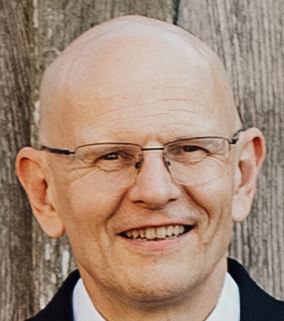
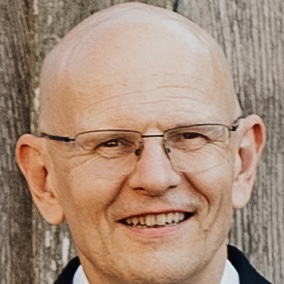
Update page

diff --git a/templates/team.html b/templates/team.html
@@ -13,12 +13,12 @@
         {% for member in bag('team')['members'] %}
             <div class="team-member">
                 {% if member.image %}
-                <div class="team-member-item">
-                    <img src="{{ member.image|url }}" alt="{{ member.name ~ ' profile picture' }}" height="300" width="300">
+                <div class="team-member-image">
+                    <img src="{{ member.image|url }}" alt="{{ member.name ~ ' profile picture' }}">
                 </div>
                 {% else %}
-                <div class="team-member-item">
-                    <img src="{{ '/static/team/default-image.png'|url }}" alt="default picture" height="300" width="300">
+                <div class="team-member-image">
+                    <img src="{{ '/static/team/default-image.png'|url }}" alt="default picture">
                 </div>
                 {% endif %}
                 <div class="team-member-item">

diff --git a/assets/static/main.css b/assets/static/main.css
@@ -558,8 +558,14 @@ a.content-list--entry {
 /* Team */
 .team-table {
     display: grid;
-    grid-template-columns: 1fr 1fr 1fr;
+    grid-template-columns: repeat(auto-fit, minmax(250px, 1fr));
     padding: 4em;
+}
+
+@media (min-width: 1600px) {
+    .team-table {
+        grid-template-columns: repeat(4, 1fr);
+    }
 }
 
 .team-member {
@@ -571,6 +577,13 @@ a.content-list--entry {
 .team-member-item {
     border: 2px;
     border-radius: 5px;
+}
+
+.team-member-image {
+    border: 2px;
+    border-radius: 5px;
+    height: 220px;
+    width: 220px;
 }
 
 .map {
